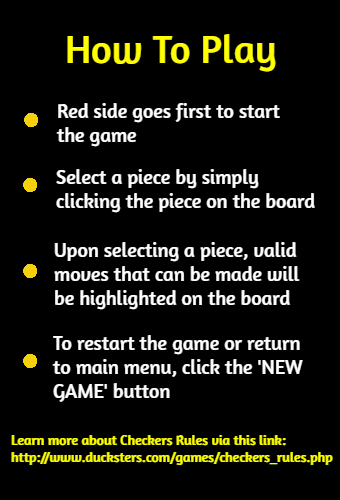
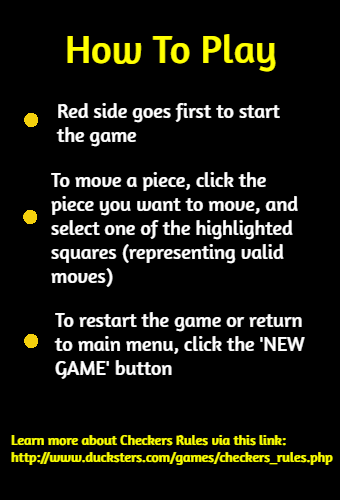
Board now displays user move on board before the AI moves a turn. Also fixed tutorial

diff --git a/BlankProjectTemplate/src/game.py b/BlankProjectTemplate/src/game.py
@@ -51,6 +51,8 @@ class Game():
                 self.validMoves = {}
                 self.gui.reset_validMoves()
                 self.gui.reset_selected()
+                self.gui.display_board(self.board.boardState, self.board.turn)
+                time.sleep(0.1)
 
                 if self.gui.single_player == 1 and self.gui.color_selected == "RED":
                     self.board = minmax(self.board,True,3)[1]
